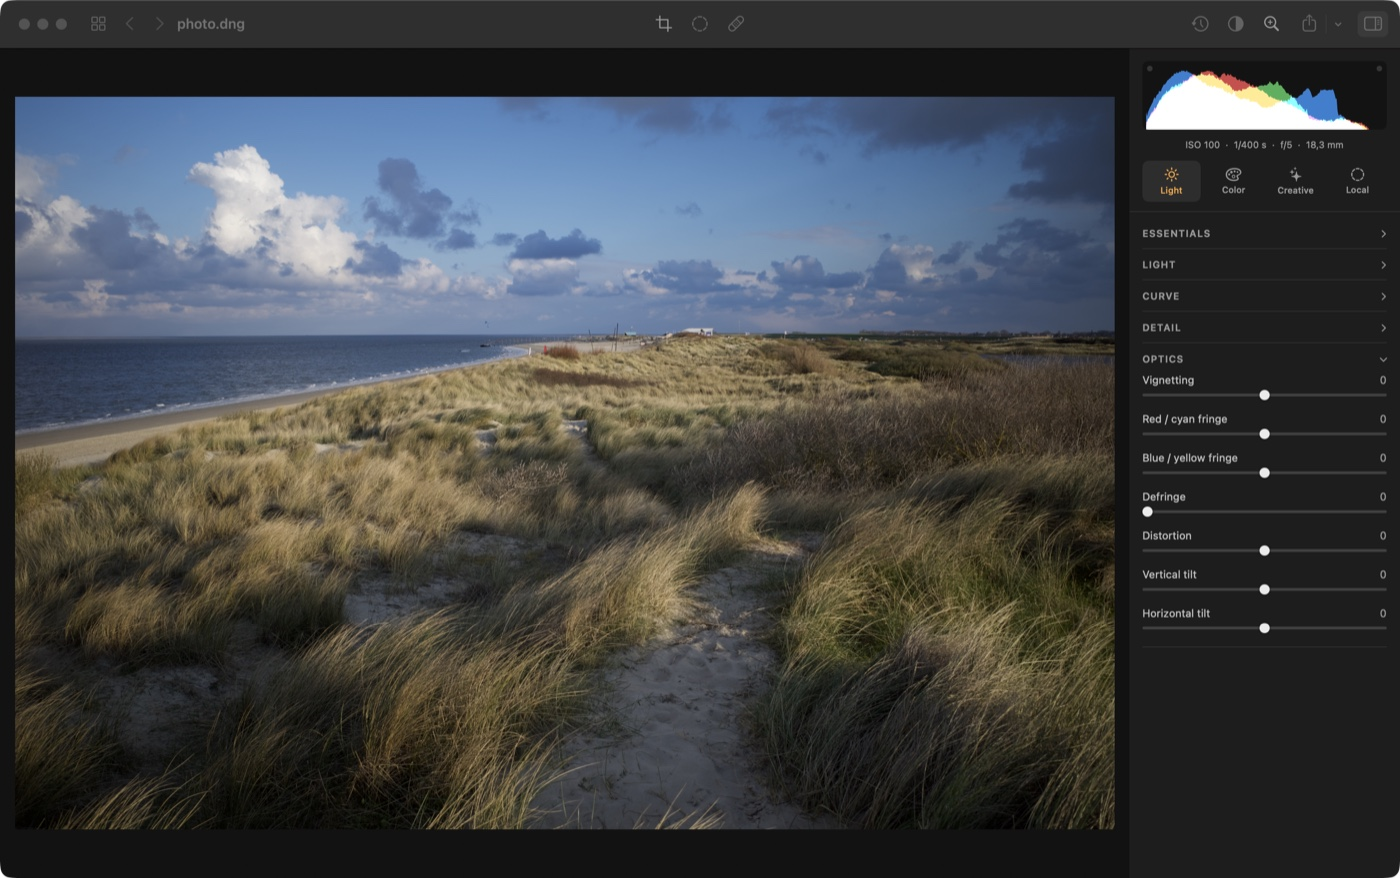
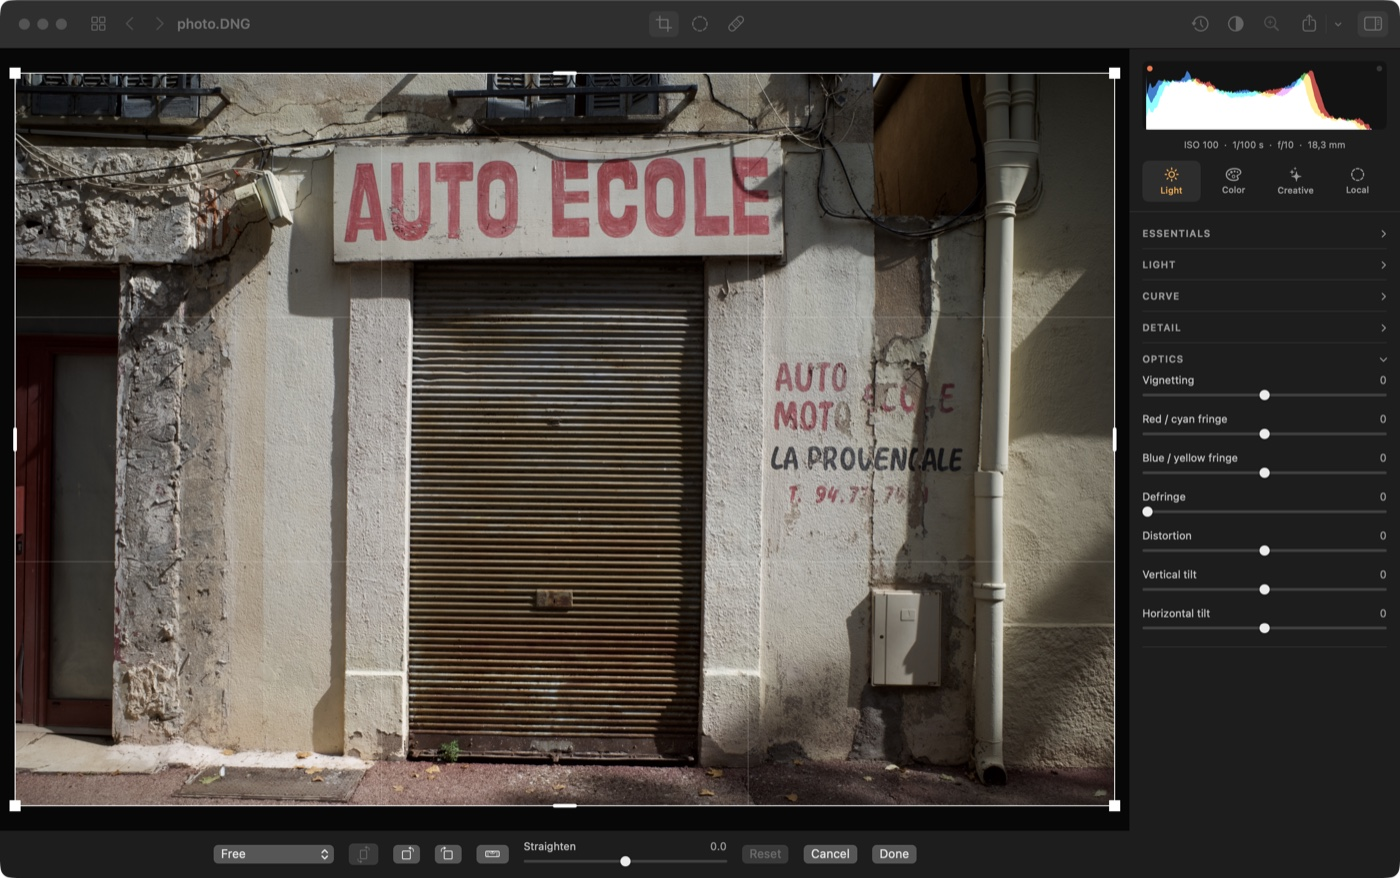
Show the thing, on a photograph that belongs to us
Three screenshots: the develop view, the looks panel with thumbnails made from
the open photograph, and the crop tool. Taken by `scripts/screenshots.sh`, so
they can be taken again when the interface moves.

Two things the script had to learn first. It took the first window it found
belonging to the app, and a tooltip is a window — the looks shot came back as
the words "Curve, Color" on grey and nothing else. It now takes the largest, and
puts the pointer in a corner beforehand, because a tooltip caught in a
screenshot is a tooltip for ever.

diff --git a/README.md b/README.md
@@ -9,6 +9,8 @@ curl -fsSL https://raw.githubusercontent.com/yoanbernabeu/SimpleRAW/main/scripts
 
 macOS 15 or later. Free, open source, MIT.
 
+![The develop view](Screenshots/develop.jpg)
+
 ## Developing
 
 Every slider moves the photograph as you drag it. The preview is decoded at the size of your
@@ -30,6 +32,10 @@ second.
   100 % view, soft proofing against a paper profile.
 
 Non-destructive. Your originals are never written to.
+
+| Looks, as thumbnails of your own photograph | Crop, rotate, straighten |
+|---|---|
+| ![The looks panel](Screenshots/looks.jpg) | ![The crop tool](Screenshots/crop.jpg) |
 
 ## The library
 
